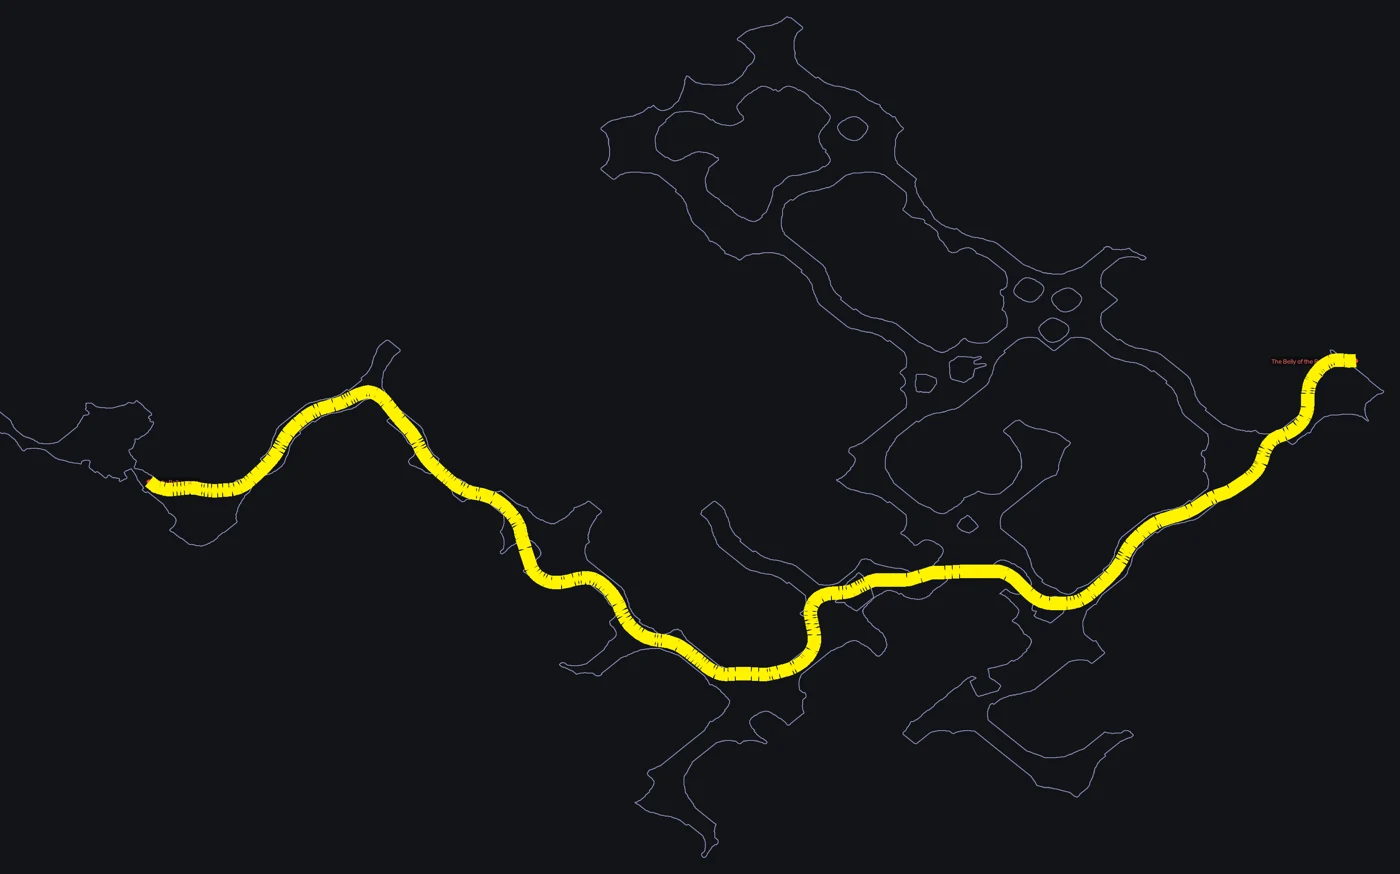
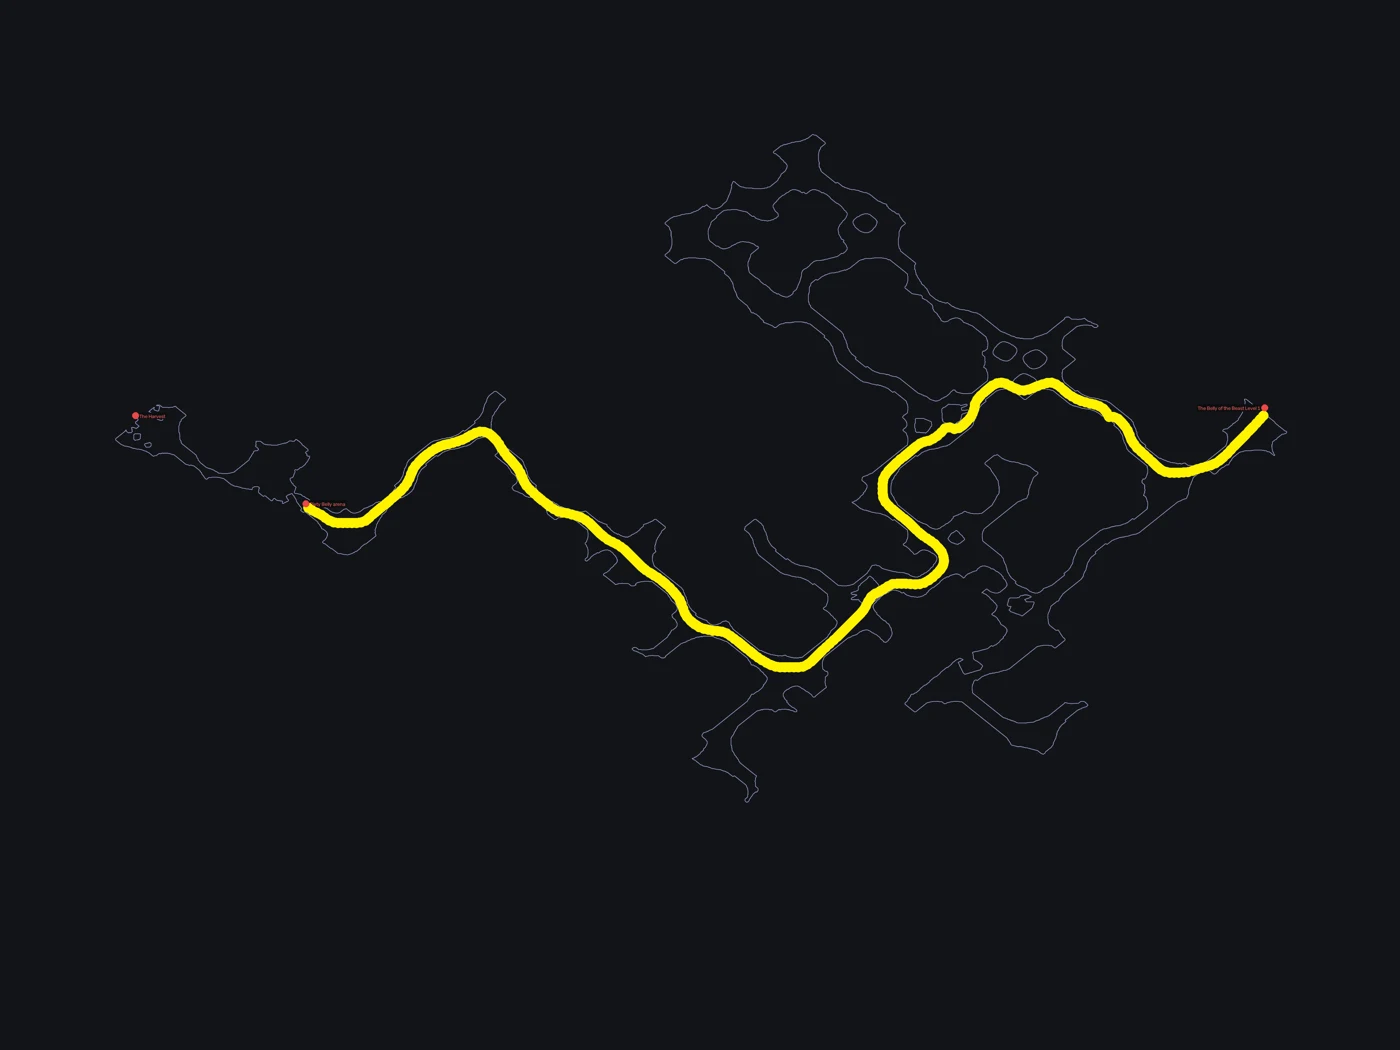
Redraw Belly 2 routes along the tree's rule walk and add Layout 4 South image

diff --git a/tools/plates.py b/tools/plates.py
@@ -171,8 +171,8 @@ ZONES = {
             '2': ('Layout 2', 'route_2', 'Go up. Exit straight up'),
             '2R': ('Layout 2', 'route_2', 'Through the room right of room 2, then up. Exit straight up'),
             '3': ('Layout 3', 'route_3', 'Keep going up-left. Exit up-left'),
-            '4': ('Layout 4', 'route_4', 'Down-left ×4, up-left 3–4, then down-left. Exit straight left'),
-            '4S': ('Layout 4 South', '', 'Down-left, then left. Exit down-left'),
+            '4': ('Layout 4', 'route_4', 'Up-left ×2, then down-left ×4, up-left 3–4, then down-left. Exit straight left'),
+            '4S': ('Layout 4 South', 'route_4S', 'Down-left, then left. Exit down-left'),
             '5': ('Layout 5', 'route_5', 'Up-left to room 4, left ×4, up-left, left. Exit straight left'),
         },
         'plates': [

diff --git a/_guides/act-4/belly-of-the-beast-2.md b/_guides/act-4/belly-of-the-beast-2.md
@@ -7,7 +7,7 @@ game_version: ""
 
 {% assign a = '/assets/guides/act-4/belly-of-the-beast-2/' | relative_url %}
 
-<div class="cp"><div class="cp-q">Path up-left from the door?</div><ul><li style="flex:1"><i>No</i><div class="cp-stem"></div><div class="cp-leaf"><b>Layout 4 South</b><span>Down-left, then left. Exit down-left</span></div></li><li style="flex:6"><i>Yes</i><div class="cp-q">Piece off room 1 top-right?</div><ul><li style="flex:2"><i>Yes</i><div class="cp-q">Down-left room by the door leads on?</div><ul><li style="flex:1"><i>Yes</i><div class="cp-stem"></div><div class="cp-leaf"><b>Layout 1</b><img data-full="{{ a }}route_1.webp" src="{{ a }}cards/route_1.webp" width="640" height="372" decoding="async" alt="Layout 1 route"><span>Up-left to room 4, then zigzag down-left and up-left. Exit left, slightly up</span></div></li><li style="flex:1"><i>No</i><div class="cp-stem"></div><div class="cp-leaf"><b>Layout 3</b><img data-full="{{ a }}route_3.webp" src="{{ a }}cards/route_3.webp" width="640" height="463" decoding="async" alt="Layout 3 route"><span>Keep going up-left. Exit up-left</span></div></li></ul></li><li style="flex:4"><i>No</i><div class="cp-q">Room 1 goes on up-left?</div><ul><li style="flex:1"><i>No</i><div class="cp-stem"></div><div class="cp-leaf"><b>Layout 2</b><img data-full="{{ a }}route_2.webp" src="{{ a }}cards/route_2.webp" width="480" height="640" decoding="async" alt="Layout 2 route"><span>Go up. Exit straight up</span></div></li><li style="flex:3"><i>Yes</i><div class="cp-q">Room 2 opens down-left?</div><ul><li style="flex:1"><i>No</i><div class="cp-stem"></div><div class="cp-leaf"><b>Layout 5</b><img data-full="{{ a }}route_5.webp" src="{{ a }}cards/route_5.webp" width="640" height="353" decoding="async" alt="Layout 5 route"><span>Up-left to room 4, left ×4, up-left, left. Exit straight left</span></div></li><li style="flex:2"><i>Yes</i><div class="cp-q">Room right of room 2 goes on up-right?</div><ul><li style="flex:1"><i>Yes</i><div class="cp-stem"></div><div class="cp-leaf"><b>Layout 2</b><img data-full="{{ a }}route_2.webp" src="{{ a }}cards/route_2.webp" width="480" height="640" decoding="async" alt="Layout 2 route"><span>Through the room right of room 2, then up. Exit straight up</span></div></li><li style="flex:1"><i>No</i><div class="cp-stem"></div><div class="cp-leaf"><b>Layout 4</b><img data-full="{{ a }}route_4.webp" src="{{ a }}cards/route_4.webp" width="640" height="400" decoding="async" alt="Layout 4 route"><span>Down-left ×4, up-left 3–4, then down-left. Exit straight left</span></div></li></ul></li></ul></li></ul></li></ul></li></ul></div>
+<div class="cp"><div class="cp-q">Path up-left from the door?</div><ul><li style="flex:1"><i>No</i><div class="cp-stem"></div><div class="cp-leaf"><b>Layout 4 South</b><img data-full="{{ a }}route_4S.webp" src="{{ a }}cards/route_4S.webp" width="640" height="414" decoding="async" alt="Layout 4 South route"><span>Down-left, then left. Exit down-left</span></div></li><li style="flex:6"><i>Yes</i><div class="cp-q">Piece off room 1 top-right?</div><ul><li style="flex:2"><i>Yes</i><div class="cp-q">Down-left room by the door leads on?</div><ul><li style="flex:1"><i>Yes</i><div class="cp-stem"></div><div class="cp-leaf"><b>Layout 1</b><img data-full="{{ a }}route_1.webp" src="{{ a }}cards/route_1.webp" width="640" height="480" decoding="async" alt="Layout 1 route"><span>Up-left to room 4, then zigzag down-left and up-left. Exit left, slightly up</span></div></li><li style="flex:1"><i>No</i><div class="cp-stem"></div><div class="cp-leaf"><b>Layout 3</b><img data-full="{{ a }}route_3.webp" src="{{ a }}cards/route_3.webp" width="640" height="480" decoding="async" alt="Layout 3 route"><span>Keep going up-left. Exit up-left</span></div></li></ul></li><li style="flex:4"><i>No</i><div class="cp-q">Room 1 goes on up-left?</div><ul><li style="flex:1"><i>No</i><div class="cp-stem"></div><div class="cp-leaf"><b>Layout 2</b><img data-full="{{ a }}route_2.webp" src="{{ a }}cards/route_2.webp" width="560" height="640" decoding="async" alt="Layout 2 route"><span>Go up. Exit straight up</span></div></li><li style="flex:3"><i>Yes</i><div class="cp-q">Room 2 opens down-left?</div><ul><li style="flex:1"><i>No</i><div class="cp-stem"></div><div class="cp-leaf"><b>Layout 5</b><img data-full="{{ a }}route_5.webp" src="{{ a }}cards/route_5.webp" width="640" height="480" decoding="async" alt="Layout 5 route"><span>Up-left to room 4, left ×4, up-left, left. Exit straight left</span></div></li><li style="flex:2"><i>Yes</i><div class="cp-q">Room right of room 2 goes on up-right?</div><ul><li style="flex:1"><i>Yes</i><div class="cp-stem"></div><div class="cp-leaf"><b>Layout 2</b><img data-full="{{ a }}route_2.webp" src="{{ a }}cards/route_2.webp" width="560" height="640" decoding="async" alt="Layout 2 route"><span>Through the room right of room 2, then up. Exit straight up</span></div></li><li style="flex:1"><i>No</i><div class="cp-stem"></div><div class="cp-leaf"><b>Layout 4</b><img data-full="{{ a }}route_4.webp" src="{{ a }}cards/route_4.webp" width="640" height="480" decoding="async" alt="Layout 4 route"><span>Up-left ×2, then down-left ×4, up-left 3–4, then down-left. Exit straight left</span></div></li></ul></li></ul></li></ul></li></ul></li></ul></div>
 
 ## Layouts
 
